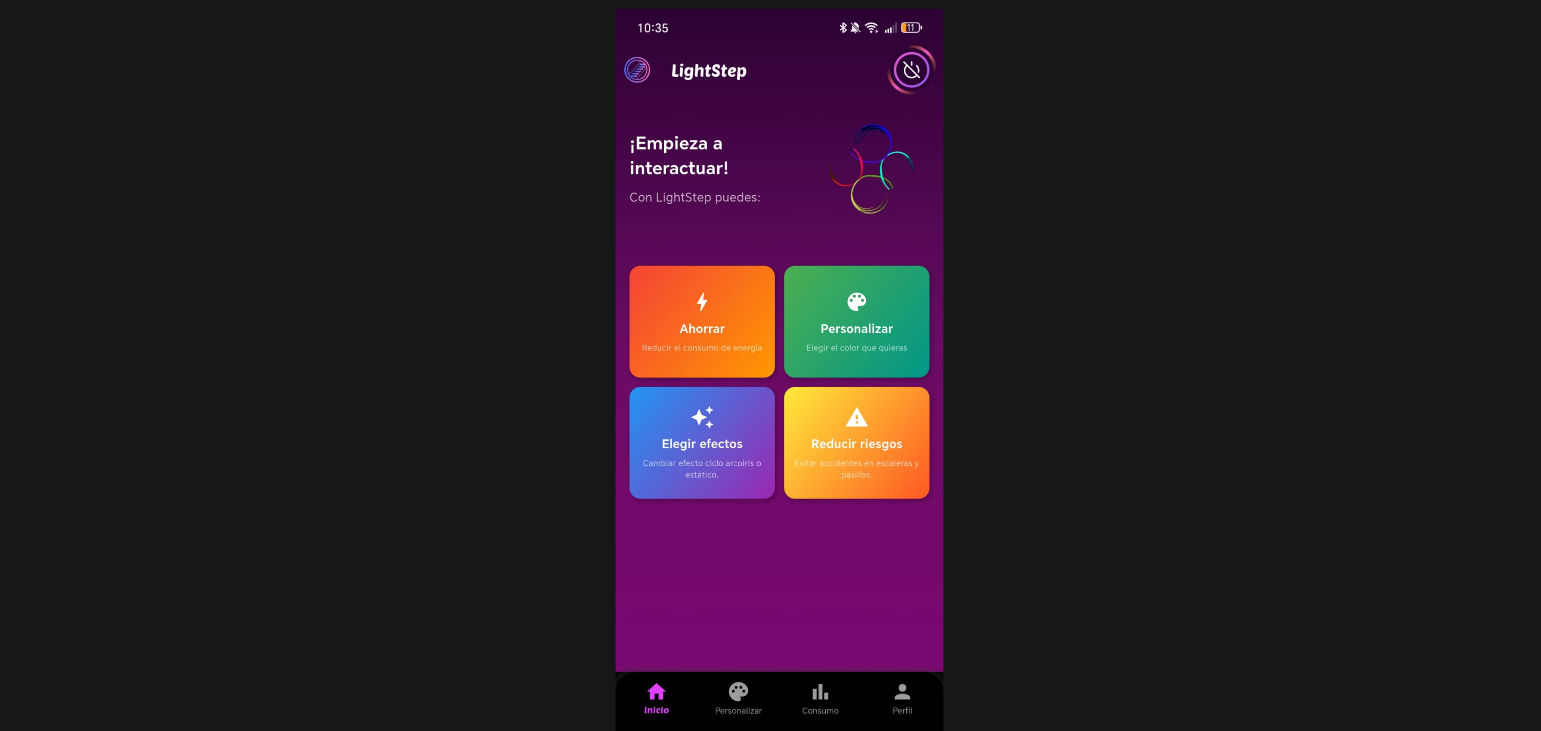
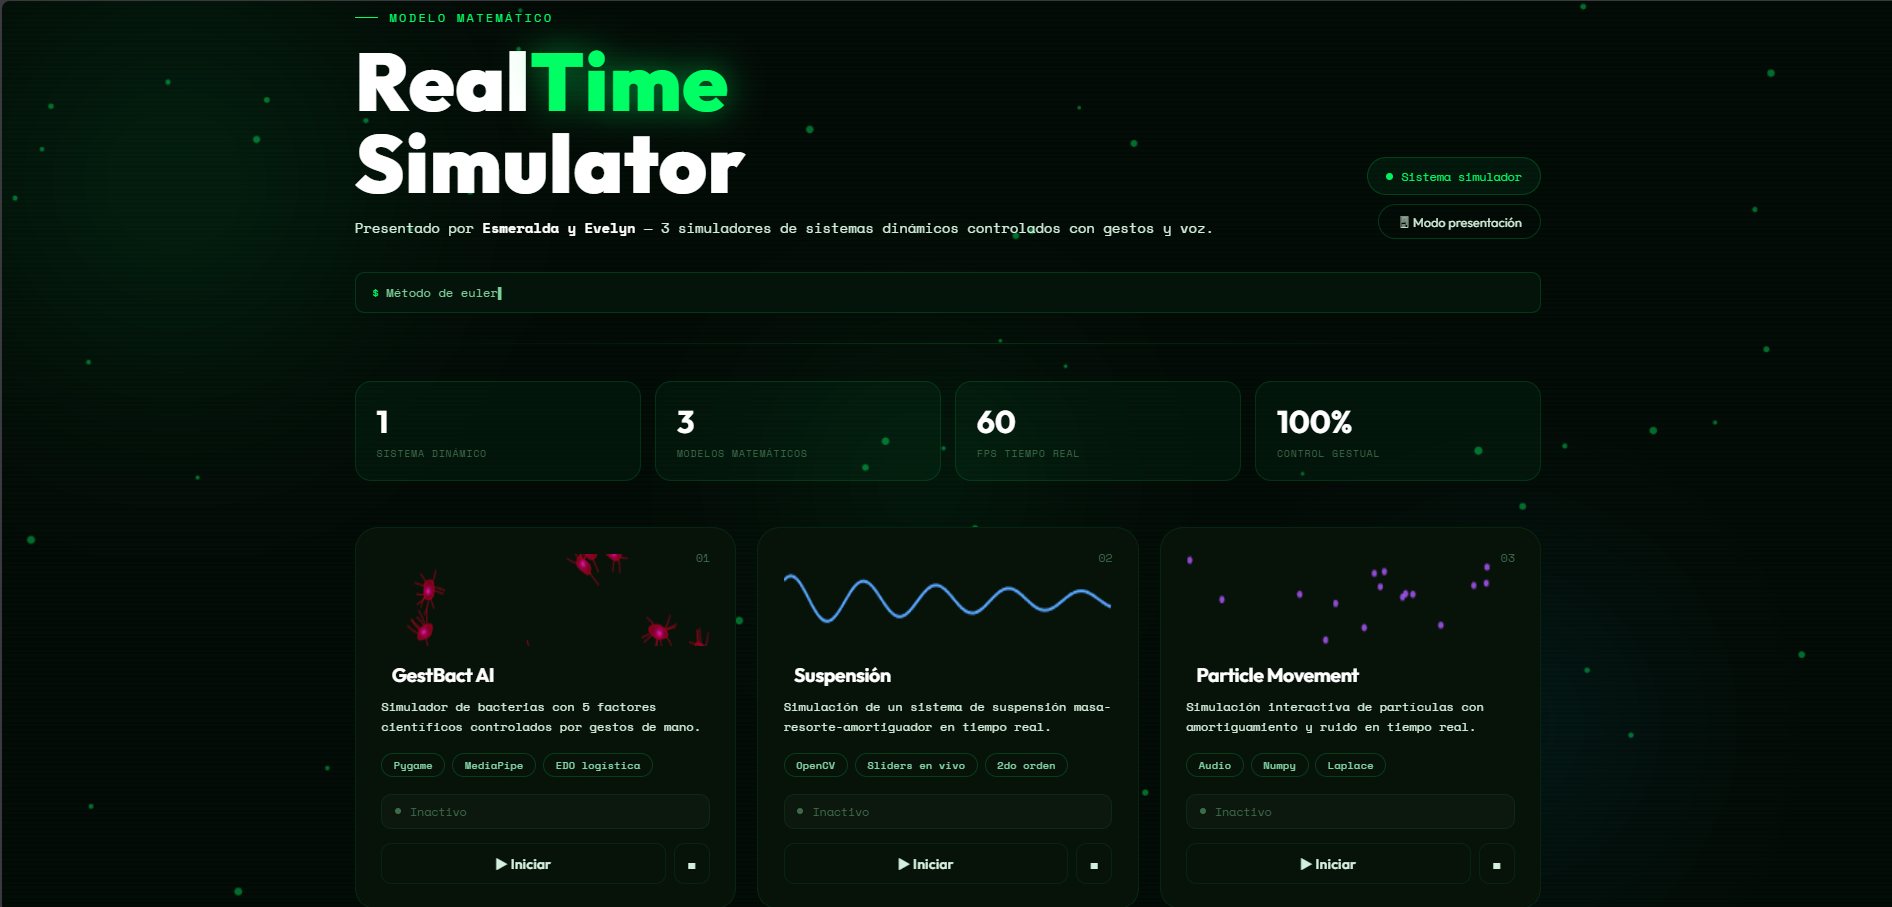
información actualizada

diff --git a/src/sections/Experience.jsx b/src/sections/Experience.jsx
@@ -1,38 +1,47 @@
 const experiences = [
   {
-    period: "2022 — Present",
-    role: "Senior Frontend Engineer",
-    company: "Tech Innovators Inc.",
+    period: "2023",
+    role: "Inicio de mi vida como estudiante en desarrollo de software",
+    company: "",
     description:
-      "Leading frontend architecture for a suite of fintech products. Implemented micro-frontend architecture, reduced bundle size by 40%, and mentored a team of 5 developers.",
-    technologies: ["React", "TypeScript", "Next.js", "GraphQL"],
+      "Comencé mi formación en la carrera de Tecnologías de la Información, fortaleciendo conocimientos en bases de datos, desarrollo web, desarrollo móvil y desarrollo de software.",
+    technologies: [],
     current: true,
   },
   {
-    period: "2020 — 2022",
-    role: "Frontend Engineer",
-    company: "Digital Solutions Co.",
+    period: "2024",
+    role: "Proyecto Integrador – Gladiators",
+    company: "",
     description:
-      "Built and maintained multiple React applications for enterprise clients. Introduced automated testing practices that improved code coverage to 85%.",
-    technologies: ["React", "Redux", "Jest", "Cypress"],
+      "Desarrollé Gladiators, mi primer proyecto integrador universitario, consistente en un sistema de punto de venta con funcionalidades para el control de ventas, inventario y gestión de productos.",
+    technologies: ["Flask", "Python","Postgres SQL"],
     current: false,
   },
   {
-    period: "2019 — 2020",
-    role: "Junior Developer",
-    company: "StartUp Labs",
+    period: "2025",
+    role: "Proyecto Integrador – Light Step",
+    company: "",
     description:
-      "Contributed to the development of a SaaS platform from MVP to production. Collaborated with designers to implement pixel-perfect UI components.",
-    technologies: ["React", "Node.js", "MongoDB", "AWS"],
+      "Desarrollé Light Step, un proyecto que integró una página web, una aplicación móvil y un dispositivo IoT, con el objetivo de ofrecer una solución tecnológica.",
+    technologies: ["Python","JavaScript", "Django", "TailwindCSS","Flutter","Dart", "Firebase", ],
     current: false,
   },
   {
-    period: "2018 — 2019",
-    role: "Freelance Developer",
-    company: "Self-Employed",
+    period: "2025",
+    role: "Módulo de Contratos y Expedientes",
+    company: "",
     description:
-      "Delivered custom web solutions for small businesses and startups. Built 15+ websites and applications, handling everything from design to deployment.",
-    technologies: ["JavaScript", "PHP", "WordPress", "MySQL"],
+      "Realicé mis estadías en la empresa Aizu, donde desarrollé un nuevo módulo para el sistema interno de la empresa enfocado en la gestión de contratos y expedientes.",
+    technologies: ["JavaScript", "PHP", "MySQL","Filezilla"],
+    current: false,
+  },
+    {
+    period: "2026 – Actualidad",
+    role: "Desarrollo de Modelo Matemático con MediaPipe",
+    company: "",
+    description:
+      "Desarrollé un modelo matemático utilizando MediaPipe para el análisis de movimientos mediante una cámara por computadora.",
+    technologies: ["JavaScript", "Python", "OpenCV","MediaPipe"],
     current: false,
   },
 ];
@@ -42,7 +51,7 @@ export const Experience = () => {
     <section id="experience" className="py-32 relative overflow-hidden">
       <div
         className="absolute top-1/2 left-1/4 w-96
-       h-96 bg-primary/5 rounded-full blur-3xl -translate-y-1/2"
+        h-96 bg-primary/5 rounded-full blur-3xl -translate-y-1/2"
       />
 
       <div className="container mx-auto px-6 relative z-10">
@@ -50,29 +59,27 @@ export const Experience = () => {
         <div className="max-w-3xl mb-16">
           <span
             className="text-secondary-foreground text-sm
-           font-medium tracking-wider uppercase animate-fade-in"
+            font-medium tracking-wider uppercase animate-fade-in"
           >
-            Career Journey
+          
           </span>
           <h2
             className="text-4xl md:text-5xl font-bold
-           mt-4 mb-6 animate-fade-in animation-delay-100
+            mt-4 mb-6 animate-fade-in animation-delay-100
             text-secondary-foreground"
           >
-            Experience that{" "}
+            Experiencia adquirida{" "}
             <span className="font-serif italic font-normal text-white">
               {" "}
-              speaks volumes.
+              a través del tiempo.
             </span>
           </h2>
 
           <p
             className="text-muted-foreground
-           animate-fade-in animation-delay-200"
+            animate-fade-in animation-delay-200"
           >
-            A timeline of my professional growth, from curious beginner to
-            senior engineer leading teams and building products at scale.
-          </p>
+            Una cronología de mi crecimiento como estudiante</p>
         </div>
 
         {/* Timeline */}

diff --git a/src/sections/Projects.jsx b/src/sections/Projects.jsx
@@ -5,31 +5,30 @@ const projects = [
   {
     title: "Light Step",
     description:
-      "A comprehensive financial analytics platform with real-time data visualization, portfolio management, and AI-powered insights.",
+      "Light Step es un proyecto que integra una página web, una aplicación móvil y un dispositivo IoT. Consiste en unas escaleras inteligentes que se controlan a través de la aplicación móvil, en la que se le puede cambiar el color, el efecto, la opacidad y consultar el tiempo de uso, de igualmanera, cuando las escaleras detectan personas se encienden. En la página web se encuentra la información sobre las esclaeras inteligentes, así como el costo",
     image: "/projects/proyecto1.jpeg",
-    tags: ["Django", "Tailwind.css", "Python", "JavaScript"],
+    tags: ["Django", "Tailwind css", "Python", "JavaScript"],
     link: "#",
   },
   {
-    title: "Light Step Mòvil",
-    description:
-      "A full-featured e-commerce solution with inventory management, payment processing, and analytics dashboard.",
+    title: "Realtime Simulator",
+    description:"Realtime Simulator es un simulador de partículas en tiempo real controlado mediante gestos de las manos y comandos de voz. Permite modificar la velocidad y fuerza de las partículas para visualizar su comportamiento en distintos escenarios físicos, como la dispersión de materiales durante un derrumbe o un impacto.",
     image: "/projects/proyecto2.png",
-    tags: ["Flutter", "Dart", "Firebase"],
+    tags: ["Python", "Media Pipe", "JavaScript"],
     link: "#",
   },
   {
-    title: "Sistema de Punto de Vneta",
+    title: "Sistema de Punto de Venta",
     description:
-      "An intelligent writing tool powered by GPT-4, helping users create better content faster.",
+      "Gladiators en un Sistema de Punto de Venta, su funcionalidad consiste en hacer ventas, gestionar productos, empleados e inventario, ",
     image: "/projects/proyecto3.jpeg",
     tags: ["Flask", "Python", "PostgreSQL"],
     link: "#",
   },
   {
-    title: "Mòdulo Contratos y Expedientes",
+    title: "Módulo Contratos y Expedientes",
     description:
-      "A collaborative workspace for teams with real-time updates, task tracking, and integrations.",
+      "Es un módulo, el cuál consiste en generar contratos con IA a empleados nuevos, así como poder firmarlos digitalmente o subir la e.firma, donde cada empleado puede subir sus documentos personales al expediente correspondiente",
     image: "/projects/proyecto4.jpeg",
     tags: ["PHP", "MySQL", "Filezilla", "JavaScript"],
     link: "#",
@@ -59,7 +58,7 @@ export const Projects = () => {
           </h2>
 
           <p className="text-muted-foreground animate-fade-in animation-delay-200">
-            Una selecciòn de mis proyectos recientes que han generado impacto
+            Una seleccionn de mis proyectos recientes que han generado impacto
           </p>
         </div>
 
@@ -132,10 +131,6 @@ export const Projects = () => {
 
         {/* View All CTA */}
         <div className="text-center mt-12 animate-fade-in animation-delay-500">
-          <AnimatedBorderButton>
-            View All Projects
-            <ArrowUpRight className="w-5 h-5" />
-          </AnimatedBorderButton>
         </div>
       </div>
     </section>

diff --git a/src/sections/Hero.jsx b/src/sections/Hero.jsx
@@ -106,7 +106,7 @@ export const Hero = () => {
               />
               <div className="relative glass rounded-full p-2 glow-border">
                 <img
-                  src=""
+                  src="/descarga.png"
                   alt=""
                   className="w-full aspect-[26/27] object-cover rounded-b-full"
                 />